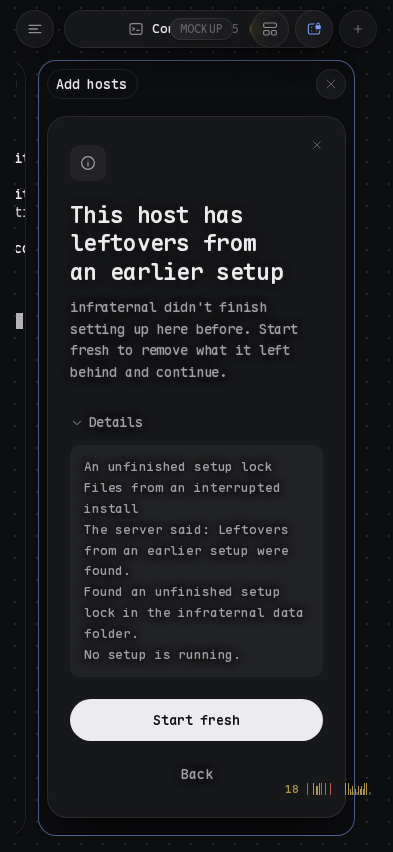
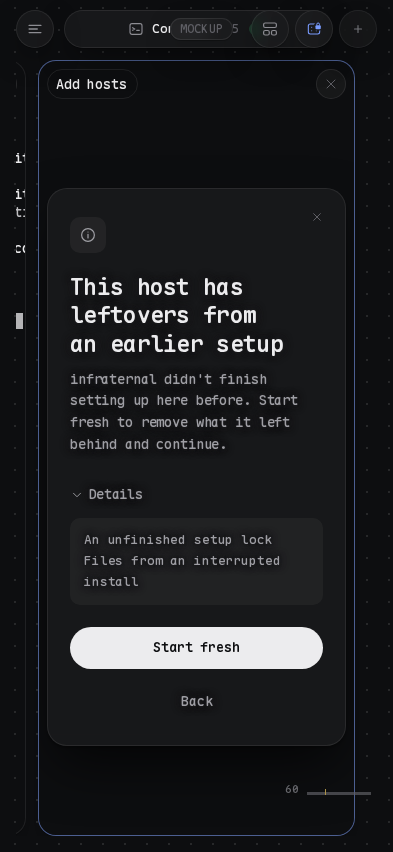
addhost: leftovers are a pause in the open attempt, not a failure (#169)
The written backend contract (contracts/ssh-bootstrap.md, "Start fresh over
earlier setup leftovers") reports stale_previous_attempt on a `check` event with
optional leftovers, while the attempt stays open and waits for start-fresh.
setup_running stays a terminal failure. My first cut assumed a terminal failure.
The client now folds such a check event into a running view that carries the
leftovers (awaitingFresh) and clears it on the attempt's next event; a pause
without leftovers offers nothing to start. The wizard shows a paused host like a
host needing attention (leftovers screen, row button, settle and footer), and a
lost socket clears the pause, so the next run finds the leftovers again with a
new challenge. The test double pauses on a check event and resumes the same
attempt on start-fresh; closing the socket frees the paused slot. Details no
longer repeats the screen's body as "The server said".

Claude-Session: https://claude.ai/code/session_014Wdcmhu9LMjRN1VWqMNSLg

diff --git a/apps/tracer/test/provisioning-double.ts b/apps/tracer/test/provisioning-double.ts
@@ -21,8 +21,9 @@
  * - `needs-key*` / nix-cache: every automatic method refused (auth + choose_method) until a credential is given
  * - `refused*`: one refusal without `choose_method`; the retry signs in
  * - `newkey*`: unknown host key (host-key + fingerprint) until confirmed on the same bootstrap socket
- * - `stale*`: an earlier setup left leftovers: `stale_previous_attempt` with a `leftovers` challenge and findings
- *   after sign-in; `start-fresh` with that challenge continues the same attempt and succeeds (#169)
+ * - `stale*`: an earlier setup left leftovers: the attempt pauses on a `check` event carrying
+ *   `failure.kind: "stale_previous_attempt"` and `leftovers` (challenge, mode, findings); `start-fresh` with that challenge
+ *   continues the same attempt to done. Closing the socket cancels the pause (contracts/ssh-bootstrap.md, #169)
  * - `running*`: `setup_running` once; the retry succeeds
  * - `unsupported*`: reported after sign-in, never succeeds; `broken*`: install fails, the retry works
  * HTTP side (`handleBootstrapHttp`): the proposed endpoints of #87 (ssh-key, discovery, credential, host-key,
@@ -77,8 +78,12 @@ interface Target {
   enteredAt: number;
   breadcrumbs: string[];
   timers: Set<ReturnType<typeof setTimeout>>;
-  /** The one-use handle of the leftovers the last failure reported. */
+  /** The one-use handle of the leftovers the attempt is paused on (#169); the attempt waits for `start-fresh`. */
   challenge: string | undefined;
+  /** Continues a paused attempt after `start-fresh`. */
+  resume: (() => void) | undefined;
+  /** Leftovers were removed (or never existed) for this host in this socket. */
+  fresh: boolean;
   /** True after a failed attempt: the next attempt succeeds. */
   fixed: boolean;
   order: number;
@@ -148,7 +153,6 @@ function failureOf(target: Target): Failure | undefined {
     return { phase: 0, beforeLogin: true, kind: "auth", message: "No sign-in method was accepted.", evidence: "Network access, the server key and a saved key were not accepted.", choose: true };
   }
   if (/^refused/.test(name)) return { phase: 0, beforeLogin: true, kind: "auth", message: "The host refused the server key.", evidence: "The host answered on port 22 and refused the SSH identity." };
-  if (/^stale/.test(name)) return { phase: 0, beforeLogin: false, kind: "stale_previous_attempt", message: "Leftovers from an earlier setup were found.", evidence: "Found an unfinished setup lock in the infraternal data folder.\nNo setup is running." };
   if (/^running/.test(name)) return { phase: 0, beforeLogin: false, kind: "setup_running", message: "Another setup is still running on this host.", evidence: "A setup holds the lock on this host." };
   if (/^broken/.test(name)) return { failed_step: "start", phase: 1, beforeLogin: false, kind: "install", message: "The installation did not finish and was rolled back.", evidence: "Uploaded the binary.\nThe unit failed to start." };
   return undefined;
@@ -173,17 +177,15 @@ export function serveProvisioning(socket: WebSocket, _request: IncomingMessage):
   const send = (value: unknown): void => { if (!closed && socket.readyState === socket.OPEN) socket.send(JSON.stringify(value)); };
   const refuse = (message: string): void => send({ error: { kind: "unsupported", message, log_tail: [] } });
 
-  function emit(target: Target, step: Step, message: string, failure?: BootstrapEvent["failure"], authentication?: BootstrapEvent["authentication"]): void {
+  function emit(target: Target, step: Step, message: string, failure?: BootstrapEvent["failure"], authentication?: BootstrapEvent["authentication"], leftovers?: BootstrapEvent["leftovers"]): void {
     target.breadcrumbs = [...target.breadcrumbs, message].slice(-8);
     const event: BootstrapEvent = {
       sequence: ++sequence, target: target.id, attempt: target.attempt, step, message,
       elapsed_ms: Date.now() - target.enteredAt, log_tail: [...target.breadcrumbs],
     };
     if (failure) event.failure = failure;
-    if (failure?.kind === "stale_previous_attempt" && target.challenge) {
-      event.leftovers = { challenge: target.challenge, mode: target.mode, findings: ["An unfinished setup lock", "Files from an interrupted install"] };
-    }
     if (authentication) event.authentication = authentication;
+    if (leftovers) event.leftovers = leftovers;
     events.push(event);
     if (events.length > RETAINED_EVENTS) events.shift();
     send(event);
@@ -213,7 +215,6 @@ export function serveProvisioning(socket: WebSocket, _request: IncomingMessage):
     const failure = failureOf(target);
     const fail = (): void => {
       if (!failure) return;
-      if (failure.kind === "stale_previous_attempt") target.challenge = challengeOf(target.id);
       emit(target, "failed", failure.message, {
         ...(failure.failed_step ? { failed_step: failure.failed_step } : {}), kind: failure.kind, message: failure.message, log_tail: [failure.evidence],
         ...(failure.fingerprints ? { fingerprints: failure.fingerprints, host_key_challenge: target.id, host_key_type: "ssh-ed25519" } : {}), ...(failure.choose ? { choose_method: true } : {}),
@@ -235,6 +236,14 @@ export function serveProvisioning(socket: WebSocket, _request: IncomingMessage):
         if (failure?.beforeLogin) { later(target, pace(target, 0) + 400, fail); return; }
         later(target, pace(target, 0) / 2, () => {
           emit(target, "check", "Signed in. Checking the system.", undefined, authOf(target));
+          // Hosts named `stale*`: the check finds leftovers and the attempt pauses on a `check` event until `start-fresh`.
+          if (/^stale/.test(target.name) && !target.fresh) {
+            target.challenge = challengeOf(target.id);
+            target.resume = () => walk(1);
+            emit(target, "check", "This host has leftovers from an earlier setup", { kind: "stale_previous_attempt", message: "infraternal didn't finish setting up here before. Start fresh to remove what it left behind and continue.", log_tail: [] }, undefined,
+              { challenge: target.challenge, mode: target.mode, findings: ["An unfinished setup lock", "Files from an interrupted install"] });
+            return;
+          }
           if (failure?.phase === 0) later(target, 300, fail); else later(target, pace(target, 0) / 2, () => walk(1));
         });
         return;
@@ -265,7 +274,7 @@ export function serveProvisioning(socket: WebSocket, _request: IncomingMessage):
       parsed.push({
         id: entry.id, name: hostNameOf(address as { kind: string; value: string }), credential,
         fixture: fixtureFor({ kind: address.kind, value: address.value }), mode, attempt: 1, state: "queued",
-        enteredAt: Date.now(), breadcrumbs: [], timers: new Set(), fixed: false, challenge: undefined, order: index,
+        enteredAt: Date.now(), breadcrumbs: [], timers: new Set(), fixed: false, challenge: undefined, resume: undefined, fresh: false, order: index,
       });
     }
     started = true;
@@ -286,18 +295,19 @@ export function serveProvisioning(socket: WebSocket, _request: IncomingMessage):
     acquire(() => begin(target));
   }
 
-  /** `start-fresh`: valid only for a target whose last failure carried leftovers, with that failure's challenge. */
+  /** `start-fresh`: valid only for a target paused on leftovers, with that pause's single-use challenge. */
   function startFresh(command: Record<string, unknown>): void {
     if (!started) return refuse("Start a host batch first.");
     const target = typeof command.target === "string" ? targets.get(command.target) : undefined;
     if (!target) return refuse("That host is not in this batch.");
-    if (target.state !== "failed" || !target.challenge || command.challenge !== target.challenge) return refuse("These leftovers can't be removed. Check the host again.");
-    // The challenge is single-use and the same attempt continues: no new attempt number.
+    if (!target.challenge || !target.resume || command.challenge !== target.challenge) return refuse("This earlier setup observation is no longer available. Retry the host check.");
+    const resume = target.resume;
     target.challenge = undefined;
-    target.state = "queued";
-    target.enteredAt = Date.now();
-    target.breadcrumbs = [];
-    acquire(() => begin(target));
+    target.resume = undefined;
+    target.fresh = true;
+    // The same attempt continues: no new attempt number, then the normal steps.
+    emit(target, "check", "Earlier setup leftovers removed. Continuing the setup steps.");
+    later(target, 250, resume);
   }
 
   function replay(command: Record<string, unknown>): void {
@@ -335,7 +345,7 @@ export function serveProvisioning(socket: WebSocket, _request: IncomingMessage):
   socket.on("close", () => {
     closed = true;
     for (const target of targets.values()) {
-      const wasRunning = target.state === "active" && target.timers.size > 0;
+      const wasRunning = target.state === "active" && (target.timers.size > 0 || !!target.challenge);
       for (const timer of target.timers) clearTimeout(timer);
       target.timers.clear();
       if (wasRunning) release();

diff --git a/apps/tracer/src/canvas/addhost/wizard.ts b/apps/tracer/src/canvas/addhost/wizard.ts
@@ -26,7 +26,7 @@
  */
 import { createSpinner, hostIconMarkup, hostSourceIconMarkup, installFocusRing, mountChipInput, mountStepStatus, PaneStepper, Spring, springCheckbox, createKeyValueList } from "../../../../../packages/ui/src/index";
 import type { Chip, ChipInputController, HostPlatform, HostSource, StepStatusController, Tick, ToastController } from "../../../../../packages/ui/src/index";
-import { foldEvent, pendingTarget, ProvisioningRun, targetIdFor } from "../../provisioning-client";
+import { awaitingFresh, foldEvent, pendingTarget, ProvisioningRun, targetIdFor } from "../../provisioning-client";
 import type { BootstrapEvent, FailureDetail, StartTarget, TargetView } from "../../provisioning-client";
 import type { FlowHost, FlowSurface } from "./flow-host";
 import { hostKeyPresentation } from "./host-key";
@@ -63,6 +63,11 @@ interface Entry {
 
 /** One host of the batch; everything about its progress is `view`, folded from server events. */
 interface Job { entry: Entry; target: string; view: TargetView; run: ProvisioningRun | undefined; root: boolean }
+
+/** What the person sees for a host: an attempt paused on leftovers reads as needing attention, like a failure. */
+const shownState = (job: Job): TargetView["state"] => awaitingFresh(job.view) ? "failed" : job.view.state;
+/** Still working without the person: not done, not failed, not paused. */
+const working = (job: Job): boolean => { const state = shownState(job); return state === "pending" || state === "running"; };
 
 export function platformOf(name: string | undefined): HostPlatform {
   const os = (name ?? "").toLowerCase();
@@ -594,7 +599,7 @@ export class Wizard {
       // A new host window takes the camera; the wizard stays where the person is looking while it still has work to show.
       if (this.jobs.some((item) => item.view.state === "pending" || item.view.state === "running" || item.view.state === "failed")) this.surface.reveal?.();
     }
-    if (job.view.state === "done" || job.view.state === "failed") this.settle();
+    if (job.view.state === "done" || shownState(job) === "failed") this.settle();
   }
 
   /** A refused command (for example the server's batch limit): shown on the hosts that had not started. */
@@ -618,7 +623,7 @@ export class Wizard {
       job.run = undefined;
       if (job.view.state === "pending" || job.view.state === "running") {
         const message = "The connection to the server ended before setup finished.";
-        job.view = { ...job.view, state: "failed", message, failure: { kind: "install", message, log_tail: [] } };
+        job.view = { ...job.view, state: "failed", message, failure: { kind: "install", message, log_tail: [] }, leftovers: undefined };
         this.paint(job);
         changed = true;
       }
@@ -703,9 +708,9 @@ export class Wizard {
 
   private footForProgress(): void {
     if (this.page !== "progress") return;
-    const settled = this.jobs.every((job) => job.view.state === "done" || job.view.state === "failed");
+    const settled = !this.jobs.some(working);
     if (!settled) { this.setFoot(""); return; }
-    const failed = this.jobs.some((job) => job.view.state === "failed");
+    const failed = this.jobs.some((job) => shownState(job) === "failed");
     const done = this.jobs.some((job) => job.view.state === "done");
     this.setFoot(failed
       ? `<button class="ui-button ah-secondary" data-button="secondary" type="button" data-ah="${done ? "finish" : "back"}">${done ? "Close" : "Back"}</button>`
@@ -715,7 +720,7 @@ export class Wizard {
   private paint(job: Job, page: HTMLElement | undefined = this.current): void {
     const row = page?.dataset.page === "progress" ? page.querySelector<HTMLElement>(`[data-job="${CSS.escape(job.target)}"]`) : null;
     if (!row) return;
-    const { state } = job.view;
+    const state = shownState(job);
     const stages = stagesOf(job.view);
     row.dataset.state = state;
     const active = stages.find((stage) => stage.state === "running" || stage.state === "failed");
@@ -745,7 +750,7 @@ export class Wizard {
     const summary = page?.querySelector<HTMLElement>(".ah-summary");
     if (!summary) return;
     const done = this.jobs.filter((job) => job.view.state === "done").length;
-    const failed = this.jobs.filter((job) => job.view.state === "failed").length;
+    const failed = this.jobs.filter((job) => shownState(job) === "failed").length;
     const running = this.jobs.length - done - failed;
     summary.textContent = this.jobs.length === 1
       ? (running ? "Working out how to sign in, then installing." : done ? "Ready. The host is in your sidebar." : "This host needs attention.")
@@ -754,9 +759,9 @@ export class Wizard {
 
   /** When nothing is running: a lone failure gets its own page; a clean batch closes itself. */
   private settle(): void {
-    if (this.jobs.some((job) => job.view.state === "pending" || job.view.state === "running")) return;
+    if (this.jobs.some(working)) return;
     this.footForProgress();
-    const failed = this.jobs.filter((job) => job.view.state === "failed");
+    const failed = this.jobs.filter((job) => shownState(job) === "failed");
     if (!failed.length) { this.later(700, () => this.finish()); return; }
     if (this.jobs.length === 1 && this.page === "progress") this.later(500, () => { if (this.page === "progress") this.openFix(failed[0]!); });
   }
@@ -773,7 +778,7 @@ export class Wizard {
   // ── Failure, host key, choose a method, install ────────────────────────────
   private detailsOf(job: Job): string {
     const failure = job.view.failure;
-    const lines = [...(job.view.leftovers?.findings ?? []), failure?.failed_step ? `Failed step: ${FAILED_STEP_LABELS[failure.failed_step]}` : "", failure ? `The server said: ${failure.message}` : "", ...(failure?.log_tail ?? [])].filter(Boolean);
+    const lines = [...(job.view.leftovers?.findings ?? []), failure?.failed_step ? `Failed step: ${FAILED_STEP_LABELS[failure.failed_step]}` : "", failure && failure.kind !== "stale_previous_attempt" ? `The server said: ${failure.message}` : "", ...(failure?.log_tail ?? [])].filter(Boolean);
     return lines.join("\n") || job.view.message;
   }
 

diff --git a/apps/tracer/src/canvas/addhost/model.test.ts b/apps/tracer/src/canvas/addhost/model.test.ts
@@ -1,7 +1,7 @@
 /** Tests bounded SSH target parsing and the progress model used by the add-host flow. */
 // SPDX-License-Identifier: AGPL-3.0-only
 import { describe, expect, test } from "bun:test";
-import { foldEvent, pendingTarget, type BootstrapEvent, type FailureKind } from "../../provisioning-client";
+import { awaitingFresh, foldEvent, pendingTarget, type BootstrapEvent, type FailureKind } from "../../provisioning-client";
 import { authLabel, failureLine, guideFor, looksLikeSshConfig, matchListed, parseSshConfig, parseTarget, stagesOf } from "./model";
 
 const event = (step: BootstrapEvent["step"], extra: Partial<BootstrapEvent> = {}): BootstrapEvent => ({ sequence: 1, target: "h", attempt: 1, step, message: `${step} message`, elapsed_ms: 1, log_tail: [], ...extra });
@@ -213,4 +213,29 @@ test("an already added host says so and offers opening its existing terminal", (
   expect(guideFor("worker", failure).title).toBe("worker is already added");
   expect(guideFor("worker", failure).happened).toContain("already added");
   expect(guideFor("worker", failure).fix).toBe("none");
+});
+
+describe("leftovers pause (#169)", () => {
+  const challenge = "3f2b8c1e-9a4d-4e6b-8c7a-1d2e3f4a5b6c";
+  const pause: BootstrapEvent = {
+    sequence: 2, target: "h", attempt: 1, step: "check", message: "leftovers", elapsed_ms: 1, log_tail: [],
+    failure: { kind: "stale_previous_attempt", message: "x", log_tail: [] }, leftovers: { challenge, mode: "rootless", findings: ["An unfinished setup lock"] },
+  };
+  const signedIn: BootstrapEvent = { sequence: 1, target: "h", attempt: 1, step: "check", message: "in", elapsed_ms: 0, log_tail: [], authentication: { method: "server-key" } };
+
+  test("a check event with leftovers pauses the running attempt; the next event clears it", () => {
+    const paused = fold(signedIn, pause);
+    expect(paused.state).toBe("running");
+    expect(awaitingFresh(paused)).toBe(true);
+    expect(paused.leftovers?.challenge).toBe(challenge);
+    expect(stagesOf(paused)[1]?.state).toBe("failed");
+    const resumed = foldEvent(paused, event("check", { sequence: 3, message: "removed" }));
+    expect(awaitingFresh(resumed)).toBe(false);
+    expect(resumed.attempt).toBe(1);
+  });
+
+  test("a pause without leftovers offers nothing to start fresh", () => {
+    const { leftovers: _leftovers, ...bare } = pause;
+    expect(awaitingFresh(fold(signedIn, bare))).toBe(false);
+  });
 });

diff --git a/apps/tracer/src/provisioning-client.ts b/apps/tracer/src/provisioning-client.ts
@@ -301,12 +301,15 @@ export interface TargetView {
   /** The server's human text for the latest event. */
   message: string;
   failure: FailureDetail | undefined;
-  /** What an earlier setup left behind, while the host waits on the person's "Start fresh". */
+  /** What an earlier setup left behind, while the running attempt is paused on the person's "Start fresh". */
   leftovers: Leftovers | undefined;
   elapsedMs: number;
   /** How this attempt signed in, once the server reported it. */
   authentication: AuthenticationInfo | undefined;
 }
+
+/** True while the attempt is paused on earlier-setup leftovers: it waits for the person, nothing is running. */
+export const awaitingFresh = (view: TargetView): boolean => view.state === "running" && !!view.leftovers;
 
 export const pendingTarget = (): TargetView => ({ state: "pending", attempt: 0, phase: 0, message: "", failure: undefined, leftovers: undefined, elapsedMs: 0, authentication: undefined });
 
@@ -320,6 +323,9 @@ export function foldEvent(view: TargetView, event: BootstrapEvent): TargetView {
   if (event.authentication) base.authentication = event.authentication;
   if (event.step === "done") return { ...base, ...(isCanonicalUuid(event.host_id) ? { hostId: event.host_id } : {}), state: "done", phase: PHASES.length, message: event.message, failure: undefined, leftovers: undefined, elapsedMs: event.elapsed_ms };
   if (event.step === "failed") return { ...base, state: "failed", message: event.message, failure: event.failure, leftovers: event.leftovers, elapsedMs: event.elapsed_ms };
+  // Earlier-setup leftovers are a pause inside the open attempt (a `check` event, #169): the attempt stays running and
+  // waits for `startFresh`. The next event of the attempt clears the pause.
+  const paused = event.failure?.kind === "stale_previous_attempt" && !!event.leftovers;
   // Rollback and warnings may emit extra install events; the phase never moves backwards.
-  return { ...base, state: "running", phase: Math.max(base.phase, phase), message: event.message, failure: undefined, leftovers: undefined, elapsedMs: event.elapsed_ms };
+  return { ...base, state: "running", phase: Math.max(base.phase, phase), message: event.message, failure: paused ? event.failure : undefined, leftovers: paused ? event.leftovers : undefined, elapsedMs: event.elapsed_ms };
 }

diff --git a/apps/tracer/src/canvas/addhost/model.ts b/apps/tracer/src/canvas/addhost/model.ts
@@ -9,6 +9,7 @@
  *   own text is shown beside it and is never matched on (contracts/ssh-bootstrap.md).
  * - `parseTarget` and `parseSshConfig` read what the person types or pastes into the host field.
  */
+import { awaitingFresh } from "../../provisioning-client";
 import type { AuthenticationInfo, FailureDetail, FailureKind, NetworkProvider, TargetView } from "../../provisioning-client";
 
 export type StageId = "detect" | "connect" | "install" | "enrol" | "session";
@@ -79,13 +80,14 @@ export function stagesOf(view: TargetView): StageView[] {
     if (view.state === "done") state = "done";
     else if (view.state !== "pending") {
       if (index < at) state = "done";
-      else if (index === at) state = view.state === "failed" ? "failed" : "running";
+      // A pause on leftovers waits for the person; it is not a spinner.
+      else if (index === at) state = view.state === "failed" || awaitingFresh(view) ? "failed" : "running";
     }
     let detail = "";
     if (stage.id === "detect" && view.authentication && state === "done") detail = `Signed in with ${authLabel(view.authentication)}`;
     // A running stage's text is the server's latest message, which the host's header line already shows;
     // repeating it under the stage name would say everything twice.
-    else if (index === at && view.state === "failed") detail = failureLine(view.failure);
+    else if (index === at && (view.state === "failed" || awaitingFresh(view))) detail = failureLine(view.failure);
     return { id: stage.id, label: stage.label, state, detail };
   });
 }

diff --git a/apps/tracer/test/addhost-wizard.spec.ts b/apps/tracer/test/addhost-wizard.spec.ts
@@ -427,7 +427,7 @@ test("leftovers: one Start fresh continues the same setup to done", async ({ pag
   await openWizard(page);
   await addTyped(page, "stale.lab");
   await expect(page.getByRole("heading", { name: "This host has leftovers from an earlier setup" })).toBeVisible({ timeout: 15_000 });
-  await expect(page.getByText("infraternal didn't finish setting up here before. Start fresh to remove what it left behind and continue.")).toBeVisible();
+  await expect(page.locator(".ah-lede")).toHaveText("infraternal didn't finish setting up here before. Start fresh to remove what it left behind and continue.");
   expect(await heroTone(page)).toBeNull();
   // The old chores are gone.
   for (const chore of ["restore access", "Finish its cleanup", "lock or unfinished rollback"]) await expect(wizard(page).getByText(chore, { exact: false })).toHaveCount(0);
